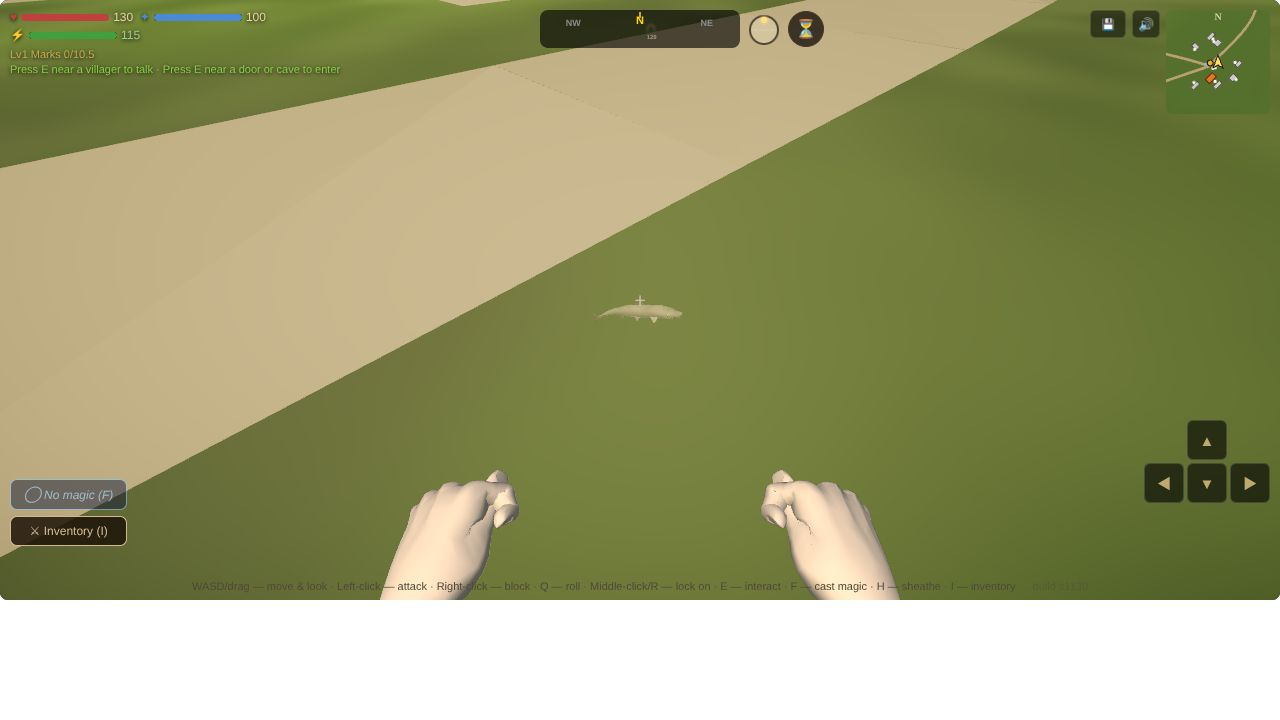
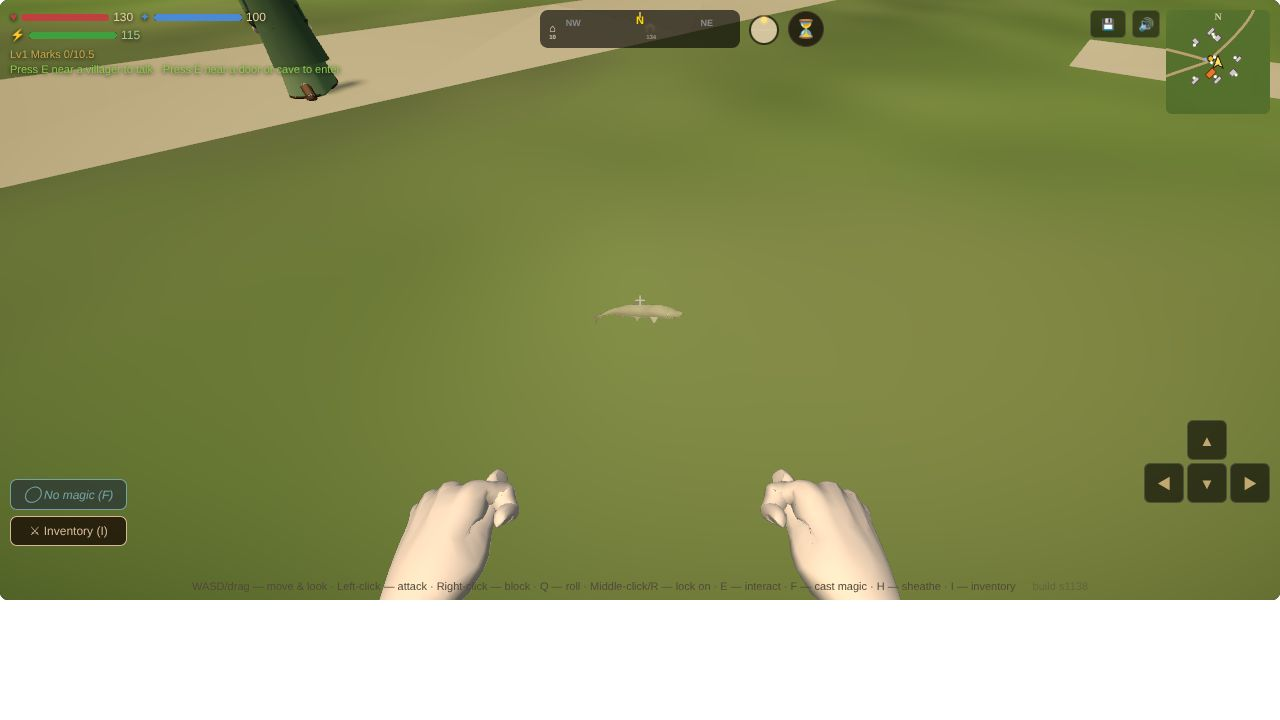
Bodies: Session 1728 — the Mire Snake, on the trout's path on land
SWIMMER's land flag: the crawl placement, a 100-triangle stand-in, slither/stand by its group, a wave's length a cycle. f4animals green.

Claude-Session: https://claude.ai/code/session_019eFMMktVTf6CLDuevJfxwQ

diff --git a/js/34-creatures.js b/js/34-creatures.js
@@ -35,7 +35,7 @@ const WOLF_KINDS={
   'Cow':       {coat:0x7a4d2e,saddle:0x5c361f,belly:0xdbd1bd,eye:0x0f0a08,horse:true,legK:1.8,legs:{fore:{root:[-.03,.03],a:[-.22,-.04],b:[-.22,.02],c:[-.23,.01]},hind:{root:[-.02,-.02],a:[-.2,.08],b:[-.2,-.1],c:[-.26,.01]}},hipY:.70,bulk:1.25,eyePos:[.05,.02,.03],world:1.78,farm:true},
   'Sheep':     {coat:0xdbd1b8,saddle:0xccc2a8,belly:0xc7bda3,eye:0x997f33,horse:true,legK:1.8,legs:{fore:{root:[-.03,.03],a:[-.22,-.04],b:[-.22,.02],c:[-.23,.01]},hind:{root:[-.02,-.02],a:[-.2,.08],b:[-.2,-.1],c:[-.26,.01]}},hipY:.70,bulk:1.1,eyePos:[.046,.02,.03],world:.935,farm:true},
   'Goat':      {coat:0x998a75,saddle:0x665747,belly:0xd6ccb8,eye:0xbf9933,horse:true,legK:1.8,legs:{fore:{root:[-.03,.03],a:[-.22,-.04],b:[-.22,.02],c:[-.23,.01]},hind:{root:[-.02,-.02],a:[-.2,.08],b:[-.2,-.1],c:[-.26,.01]}},hipY:.70,bulk:.85,eyePos:[.046,.02,.03],world:.80,farm:true},
-  // Session 1722 — the Gatelands' own (L3, OG-009; the kit's GATELANDS since Session 846), wild as the common set: the Elderstag on the deer's
+  // Session 1727 (first numbered 1722) — the Gatelands' own (L3, OG-009; the kit's GATELANDS since Session 846), wild as the common set: the Elderstag on the deer's
   // legs, the Gatefen Boar on the boar's body, the Redspine Fox, the Hollowcat and the Greenward Stoat on the wolf's
   'Elderstag': {coat:0x754a2b,saddle:0x4e3019,belly:0xd8c8a8,eye:0x140c08,horse:true,legK:1.8,legs:{fore:{root:[-.03,.03],a:[-.22,-.04],b:[-.22,.02],c:[-.23,.01]},hind:{root:[-.02,-.02],a:[-.2,.08],b:[-.2,-.1],c:[-.26,.01]}},hipY:.70,bulk:.9,eyePos:[.048,.02,.03],world:1.66,wild:true},
   'Gatefen Boar':{coat:0x3d3329,saddle:0x241e18,belly:0x5e5040,eye:0x2a1a0c,boar:true,neck:.35,bulk:1.1,world:1.76,wild:true},
@@ -368,6 +368,14 @@ function hcBirdPose(rig){const H=rig.hc,e=rig.e,g=e&&e.mesh;if(!H||!g||e.dead)re
 const SWIMMER={Trout:{len:.4,col:0x6e6a48,belly:0xd8cfb0},idle:.6};
 // Session 1724: the Gatelands' River Pike (L3, OG-009: deep rivers and lakes; the kit's riverpike), on the trout's path, 0.80 m nose to tail
 SWIMMER['River Pike']={len:.8,col:0x66753d,belly:0xe0dbb3};
+// Session 1728: the Gatelands' Mire Snake (L3, OG-009: a banded water snake; the kit's miresnake), on the trout's path on land: land marks a
+// swimmer that lies on the ground (the kit's belly at the group's origin, as the birds' crawl), whose stand-in is a long low body, and whose
+// gait is the kit's slither while its group moves and its stand at rest (no beat on the clock). 1.0 m nose to tail
+// the kit's stride for slither is a legged gait's (by the legs' height, 0.07 m a cycle here): a snake moves one wave's length a cycle, and
+// the kit's wave (waveLen 9 over the spine's and tail's seventeen bones) is about half the body, so SWIMMER.wave of its length
+SWIMMER['Mire Snake']={len:1,col:0x4a5232,belly:0xc7b880,land:true};SWIMMER.wave=.5;
+function snakeStandIn(len,col){const geo=new THREE.SphereGeometry(1,10,6).toNonIndexed();geo.applyMatrix4(new THREE.Matrix4().makeScale(.022*len,.016*len,len/2));
+  geo.translate(0,.016*len,0);geo.computeBoundingSphere();const m=new THREE.Mesh(geo,new THREE.MeshLambertMaterial({color:col}));m.castShadow=false;m.name='snake';return m;}
 function fishStandIn(len,col){const k=len/.4,parts=[],M=new THREE.Matrix4(),put=(geo,x,y,z,sx,sy,sz,ry)=>{M.makeRotationY(ry||0);
     const g=geo.index?geo.toNonIndexed():geo;g.applyMatrix4(new THREE.Matrix4().makeScale(sx,sy,sz).premultiply(M).premultiply(new THREE.Matrix4().makeTranslation(x*k,y*k,z*k)));parts.push(g);};
   put(new THREE.SphereGeometry(1,10,6),0,0,.03,.032*k,.045*k,.15*k);
@@ -377,13 +385,14 @@ function fishStandIn(len,col){const k=len/.4,parts=[],M=new THREE.Matrix4(),put=
   for(const g of parts){P.set(g.attributes.position.array,o*3);N.set(g.attributes.normal.array,o*3);o+=g.attributes.position.count;g.dispose();}
   const geo=new THREE.BufferGeometry();geo.setAttribute('position',new THREE.BufferAttribute(P,3));geo.setAttribute('normal',new THREE.BufferAttribute(N,3));geo.computeBoundingSphere();
   const m=new THREE.Mesh(geo,new THREE.MeshLambertMaterial({color:col}));m.castShadow=false;m.name='fish';return m;}
-function buildSwimmer(name,key){const F=SWIMMER[name];if(!F)return null;const root=new THREE.Group();root.name='kitroot';const mesh=fishStandIn(F.len,F.col);root.add(mesh);
-  const rig={name,swimmer:true,fish:true,gait:'swim',k:{swimmer:true},root,mesh,e:null,hcKey:'wild:'+(key!=null?key:name),reach:1,axis:0,ph:0,t:0,lx:null,lz:null,v:0,tris:mesh.geometry.attributes.position.count/3};
+function buildSwimmer(name,key){const F=SWIMMER[name];if(!F)return null;const root=new THREE.Group();root.name='kitroot';const mesh=(F.land?snakeStandIn:fishStandIn)(F.len,F.col);root.add(mesh);
+  const rig={name,swimmer:true,fish:true,land:!!F.land,crawl:!!F.land,gait:F.land?'stand':'swim',k:{swimmer:true},root,mesh,e:null,hcKey:'wild:'+(key!=null?key:name),reach:1,axis:0,ph:0,t:0,lx:null,lz:null,v:0,tris:mesh.geometry.attributes.position.count/3};
   root.userData.rig=rig;return rig;}
 // the trout's pose, near: the phase by the water its group covers (3D: a fish climbs and dives), or slowly on the clock holding still
 function hcSwimPose(rig){const H=rig.hc,e=rig.e,g=e&&e.mesh;if(!H||!g||e.dead)return;const now=performance.now()/1000,dt=rig.t?Math.min(.1,now-rig.t):0;rig.t=now;
   const p=g.position;let d=rig.lx==null?0:Math.hypot(p.x-rig.lx,p.y-rig.ly,p.z-rig.lz);rig.lx=p.x;rig.ly=p.y;rig.lz=p.z;if(d>2)d=0;
   rig.v=dt>0?rig.v+(d/dt-rig.v)*Math.min(1,dt*6):rig.v;
+  if(rig.land){const gait=rig.v>.05?'slither':'stand';if(H.C.gait!==gait)H.C.gait=gait;rig.ph+=d/(SWIMMER[rig.name].len*SWIMMER.wave);HC.pose(H.C,rig.ph);rig.gaitNow=gait;return;}
   rig.ph+=Math.max(dt*SWIMMER.idle,d/Math.max(1e-3,HC.strideOf(H.C)*H.f));HC.pose(H.C,rig.ph);rig.gaitNow=rig.v>.05?'swim':'hold';}
 // ── the wolf's motion: every joint an [x,y,z] rotation; `drop` lowers the hips ──
 const WG={
@@ -904,7 +913,7 @@ const HC_KINDS={'Wolf':{plan:'wolf'},'Snow Wolf':{plan:'wolf',own:true},'Dire Wo
   'Gargoyle':{plan:'gargoyle',own:true,person:true,merge:true,ik:true,glow:[1,.31,.13],glowR:.032,glowAt:{f:.8,up:.55,out:.5},garg:true},
   'Wraith':{plan:'wraith',own:true,person:true,legless:true,rest:HC_WRAITH_REST},'Phantom':{plan:'phantom',own:true,person:true,legless:true,rest:HC_WRAITH_REST},
   'Deer':{plan:'deer',ik:true},'Hind':{plan:'deer',own:true,ik:true,bare:true},'Red Fox':{plan:'redfox'},'Brown Hare':{plan:'brownhare'},'Badger':{plan:'badger'},'Otter':{plan:'otter'},'Cow':{plan:'cow',ik:true},'Sheep':{plan:'sheep',ik:true},'Goat':{plan:'goat',ik:true},'Elderstag':{plan:'stag',ik:true},'Gatefen Boar':{plan:'gatefenboar'},'Redspine Fox':{plan:'redspinefox'},'Hollowcat':{plan:'hollowcat'},'Greenward Stoat':{plan:'stoat'},
-  'Shark':{plan:'reefshark',fish:true},'Whale':{plan:'stormwhale',fish:true},'Dolphin':{plan:'stormswift',fish:true},'Gull':{plan:'gull',fish:true,own:true,cell:.014},'Raven':{plan:'raven',fish:true,own:true,cell:.014},'Crow':{plan:'crow',fish:true,own:true,cell:.012},'Trout':{plan:'trout',fish:true,own:true,cell:.014},'River Pike':{plan:'riverpike',fish:true,own:true,cell:.02},'Hen':{plan:'hen',fish:true,own:true,cell:.012},'Great Heron':{plan:'heron',fish:true,own:true,cell:.016},'Crag Hawk':{plan:'craghawk',fish:true,own:true,cell:.014},'Capercaillie':{plan:'capercaillie',fish:true,own:true,cell:.016},'Slime':{plan:'slime',fish:true},'Fire Elemental':{plan:'fireelemental',fish:true}};
+  'Shark':{plan:'reefshark',fish:true},'Whale':{plan:'stormwhale',fish:true},'Dolphin':{plan:'stormswift',fish:true},'Gull':{plan:'gull',fish:true,own:true,cell:.014},'Raven':{plan:'raven',fish:true,own:true,cell:.014},'Crow':{plan:'crow',fish:true,own:true,cell:.012},'Trout':{plan:'trout',fish:true,own:true,cell:.014},'River Pike':{plan:'riverpike',fish:true,own:true,cell:.02},'Mire Snake':{plan:'miresnake',fish:true,own:true,cell:.016},'Hen':{plan:'hen',fish:true,own:true,cell:.012},'Great Heron':{plan:'heron',fish:true,own:true,cell:.016},'Crag Hawk':{plan:'craghawk',fish:true,own:true,cell:.014},'Capercaillie':{plan:'capercaillie',fish:true,own:true,cell:.016},'Slime':{plan:'slime',fish:true},'Fire Elemental':{plan:'fireelemental',fish:true}};
 // the driver's joints and the kit's bones they move, parents first (the kit's front legs hang on spine3, the hind on spine0)
 const HC_MAP=[['hips','spine0'],['spine','spine1'],['neck','neck0'],['head','head'],['jaw','jaw'],['tail1','tail0'],['tail2','tail1'],['tail3','tail2'],
   ['shL','leg0L_0'],['elL','leg0L_1'],['wrL','leg0L_2'],['pfL','leg0L_3'],['shR','leg0R_0'],['elR','leg0R_1'],['wrR','leg0R_2'],['pfR','leg0R_3'],

diff --git a/docs/backlog.md b/docs/backlog.md
@@ -551,7 +551,7 @@ Michael marked all 96 images of the intake on the review page: 63 KEEP and 33 NO
 
 ### L3. Wildlife (the biggest gap: no peaceful land animals today)
 - **The common set first** (look builder, `34-creatures.js`; OG-084): wolf, red fox, brown hare, raven, crow, boar, deer, badger, otter, trout, built once and recoloured by island. Peaceful by default; one name per animal. **Prototyped as plans in the kit, Session 843** (bodies builder; `creatures.js` `COMMON`, `creatures-common.jpg`): all ten build and walk; owed: the game (after F4, behind `?look=new`), ~~the wolf~~ in it since Session 1202 (the Wolf, the Snow Wolf, the Dire Wolf; `f4wolves`), ~~the boar~~ since Session 1251 (the Boar foe's body, and the Mark's bear in the Cave Bear's brown as the Cave Bear's; `f4beasts`), ~~the Ash Hound~~ since Session 1274 (the kit's own `ashhound`: the wolf leaner and ash-grey, eyes lit, the embers a broken seam down the back; `f4beasts`, `f4wolves`), the peaceful ones still owed (they need a spawn, the systems builder's; **asked, Session 1687**, DECISION #984: where, how many, what they do on seeing you, and whether you can hunt them; A, present and huntable, recommended); Michael's A, present and huntable); ~~their bodies in the game~~ — done, Session 1704 (the Deer, the Red Fox, the Brown Hare, the Badger and the Otter: `buildAnimal(name,key)` in `34-creatures.js`, the kit's own plan each at its size in metres, keyed `wild:<key>`; `f4animals`; half the deer hinds by key, Session 1706), so the spawn is the systems builder's to call; ~~the spawn~~ — done, Session 1707 (`tickWildSpawn` in `88-world-ticks.js`: a chunk within 150 m rolls one group or none by its id and biome, off pads and roads; `tickWildOne` in `42-zone-enemies.js`: they graze, wander and run 40 m from your sight or sound; one blow kills, a deer 2 to 4 meat, a hare 1; `wildlife`); ~~the raven and the crow~~ — done, Sessions 1710 (their body, `buildBird`) and 1716 (in the spawn, carried from #1008 where it was first numbered 1711: crows on fields and shore, ravens on moor and tundra; startled they take off to 8–14 m, fly 60 m and land; aloft out of a blade's reach, an arrow must meet their height; `wildlife`); ~~the trout's body~~ — done, Session 1712 (`buildAnimal('Trout', key)`, no driver, a 120-triangle stand-in and the kit's trout near, 4,156 triangles, its beat by the water its group covers; `f4animals`), its spawn in the rivers the systems builder's (**asked, Session 1718**, DECISION #1014: how you take one; A, by hand while swimming as at sea or struck from the bank, recommended); ~~the island recolourings~~ — done, Session 865 (`COATS`, a genome's `island`); ~~the badger's face stripes~~ — done, Session 845 (a face mask in the kit). ~~Their feet on a slope (`character-builder.md`, B5)~~ — done, Session 1547 (`hcGround`: each toe on the ground under it by a two-bone reach, the body lowered when a downhill leg is straight; the bear 17 → 3 cm on a 0.20 slope; `f4beasts`).
-- **The Gatelands' fifteen** (OG-009): Elderstag, Gatefen Boar (roots up forgotten paths), Redspine Fox, otter, heron, badger, Hollowcat, stoat, Crag Hawk, Marsh Frog, River Pike, Stonecrawler, Mire Snake, Lantern Beetle (glows near ruins; an ingredient); a capercaillie in place of the turkey. **All fifteen are plans in the kit, Session 846** (bodies builder; `creatures.js` `GATELANDS`, `creatures-gatelands.jpg`); owed: the game, after F4: ~~the Elderstag, the Gatefen Boar, the Redspine Fox, the Hollowcat and the Greenward Stoat~~ have bodies in it since Session 1722 (`buildAnimal`, wild, on the wolf's driver; `f4animals`; the spawn is the systems builder's), ~~the heron, the hawk and the capercaillie~~ since Session 1723 (the birds' path, their gaits by their plans'), ~~the pike~~ since Session 1724 (the trout's path), the Stonecrawler and the frog (sprawling legs the wolf's driver has not got), the snake and the beetle still owed; ~~the Hollowcat sitting with its forefeet together and its tail wrapped round~~ — done, Sessions 1126 and 1130 (`sitTuck`, `sitWrap`; the Sunspire Lynx too, the Stormlynx's bobtail not).
+- **The Gatelands' fifteen** (OG-009): Elderstag, Gatefen Boar (roots up forgotten paths), Redspine Fox, otter, heron, badger, Hollowcat, stoat, Crag Hawk, Marsh Frog, River Pike, Stonecrawler, Mire Snake, Lantern Beetle (glows near ruins; an ingredient); a capercaillie in place of the turkey. **All fifteen are plans in the kit, Session 846** (bodies builder; `creatures.js` `GATELANDS`, `creatures-gatelands.jpg`); owed: the game, after F4: ~~the Elderstag, the Gatefen Boar, the Redspine Fox, the Hollowcat and the Greenward Stoat~~ have bodies in it since Session 1727 (renumbered from 1722; `buildAnimal`, wild, on the wolf's driver; `f4animals`; the spawn is the systems builder's), ~~the heron, the hawk and the capercaillie~~ since Session 1723 (the birds' path, their gaits by their plans'), ~~the pike~~ since Session 1724 (the trout's path), the Stonecrawler and the frog (sprawling legs the wolf's driver has not got) and the beetle still owed, ~~the snake~~ since Session 1728 (the trout's path on land, `SWIMMER`'s `land`: lying, slithering by its group, a wave's length a cycle; the kit's own `strideOf` for slither is still a legged one's, owed in `creatures.js`); ~~the Hollowcat sitting with its forefeet together and its tail wrapped round~~ — done, Sessions 1126 and 1130 (`sitTuck`, `sitWrap`; the Sunspire Lynx too, the Stormlynx's bobtail not).
 - **The Mark's fifteen** (OG-031): Icehorn (horns that moan in the wind), Ironpine Elk, Stormlynx, Skyraven, Craghorn Ram, Glacial Marmot, Stormshrike, Snowleap Hare (coat by season), Riverjaw Salmon (leaps the falls), Tundra Grouse, Icecrab; Stonefang Wolf and Frostreach Bear as reskins of the Snow Wolf and Cave Bear. **All fifteen are plans in the kit, Session 847** (bodies builder; `creatures.js` `MARK`, `creatures-mark.jpg`); owed: the game, after F4.
 - **Aurenne's fifteen** (OG-030): Duneskimmer, Terrace Ram, Oasis Hare, Scarlet Ibis, Mirage Fox, Cliffswift, Amber Shellcrab (harvestable), Cypress Stalker, Glasswing Moth (an ingredient), Sunbeak Vulture, Spined Gekko; the Saltspine Monitor hostile; the Dunescorpion as the Sand Scorpion's skin; the Sand Wyrm as a set piece known by its funnels. **Fourteen are plans in the kit, Session 848** (bodies builder; `creatures.js` `AURENNE`, `creatures-aurenne.jpg`); owed: the game, after F4; ~~the Glasswing Moth~~ — done, Session 864 (a moth's glass wings in the kit), so all fifteen are plans.
 - **The strange beasts** (OG-040): the Crownstag, the Mossback (a tortoise carrying a garden), the Bellthroat (its call at dusk), the Lanternfox, the Thornrunner; the Shatterhorn, the Frostmane (a pack beast), the Glasswing, the Stonejaw, the Stormplume; the Redcrest, the Sunfan, the Mineprowler, the Sailshell. Wonder without menace, mostly peaceful. A few have six legs, and that is ordinary (Michael's 9 A). **All fourteen are plans in the kit, Session 853** (bodies builder; `creatures.js` `STRANGE`, `creatures-strange.jpg`): six from Sessions 773 to 775 and eight new (the Crownstag, the Lanternfox, the Thornrunner, the Frostmane, the Glasswing, the Stonejaw, the Redcrest, the Sunfan); owed: the game, after F4.

diff --git a/docs/devlog/1728.md b/docs/devlog/1728.md
@@ -1,0 +1,26 @@
+## v80 — Session 1728 — the Mire Snake, on the trout's path on land
+The bodies builder's run of 2 Nov 06:15, its second item (the first, Session 1727, carried the last run's six sessions past a clash of
+numbers). L3's Gatelands' fifteen (OG-009) had the snake, the frog, the Stonecrawler and the beetle still owed in the game. The snake has
+no legs for the wolf's driver, but its motion is a fish's: a wave down the spine and tail. So it goes on the trout's path (Session 1712)
+with three differences, under a `land` flag on its `SWIMMER` row:
+- **It lies on the ground.** The rig takes the birds' `crawl` placement in `hcFishAttach`, so the kit's lowest point is at the group's
+  origin. The stand-in is `snakeStandIn`: one long, low ellipsoid of 100 triangles, 1.0 m by 0.044 by 0.032, with its belly at the origin.
+  The fish's body, tail fan and back fin would read wrong far away.
+- **It slithers or lies still.** `hcSwimPose` sets the kit's own gaits from the plan's: `slither` while its group moves, `stand` at
+  rest. Unlike a fish, it gets no slow beat on the clock.
+- **Its stride is the wave's.** The kit's `strideOf` gives a legless slither a legged gait's stride, from the legs' height: 0.07 m a
+  cycle, so 9 waves a second at a walking pace. A snake moves one wavelength a cycle, and the kit's wave (`waveLen` 9 over 17 spine and
+  tail bones) is about half the body, so the game reads `SWIMMER.wave` (0.5) of its length. That gives 1.2 cycles over 0.6 m. The kit's
+  own `strideOf` for `slither` is still the legged one: the builder page and the sea's moray (`reefmoray`, made from the snake's plan)
+  carry the same fault, and it is owed in `creatures.js`.
+
+`HC_KINDS['Mire Snake']` is the kit's `miresnake`, in its own plan, cell 0.016. `buildAnimal('Mire Snake', key)` returns the rig, and
+the caller places and registers it as it does a trout (`rig.e`, the world's foes).
+
+### Verified (headless Chromium)
+`f4animals` 1/1, all checks: the snake wears `game:Mire Snake` (18 bones, 3,896 triangles; the stand-in 100), seeded by its key,
+0.951 m long, lying from 0 to 0.057 m over its ground; at rest `stand`, moving `slither` at 1.2 cycles over 0.6 m, its bones moving
+1.26 and then 1.96 between samples; dropped when it is taken from the scene. The thirteen land animals still build (211 ticks).
+### Needs eyes
+Whether a 1 m banded snake reads as a snake from 2 m in the grass, with the slither's 0.45 rad side to side. The spawn (marsh edges and
+riverbanks) is the systems builder's, as are the trout's and the pike's.

diff --git a/docs/devlog/1727.md b/docs/devlog/1727.md
@@ -1,4 +1,6 @@
-## v80 — Session 1722 — the Gatelands' own animals: the Elderstag, the Gatefen Boar, the Redspine Fox, the Hollowcat, the Greenward Stoat
+## v80 — Session 1727 — the Gatelands' own animals: the Elderstag, the Gatefen Boar, the Redspine Fox, the Hollowcat, the Greenward Stoat
+*Renumbered (a correction): this entry was written as Session 1722 on `auto/bodies-1719`; the quest writer's Session 1722 (*The Borrowed Thing*) landed first under that number, so PR #1016 conflicted on `docs/devlog/1722.md` and could not merge. The bodies builder's run of 2 Nov 06:15 carried the run onto `auto/bodies-1727` and gave this entry the next free number. Nothing else in it changed.*
+
 The bodies builder's run of 2 Nov, its fourth item. L3's Gatelands' fifteen (OG-009) have been plans in the kit since Session 846, and the
 systems builder's spawn (S1707, Michael's A on #984) rolls the common set by biome. The Gatelands are the home island, so its own animals
 are the next family to give a body in the game. Five of the fifteen stand on four legs the wolf's driver can move; this session gives them
